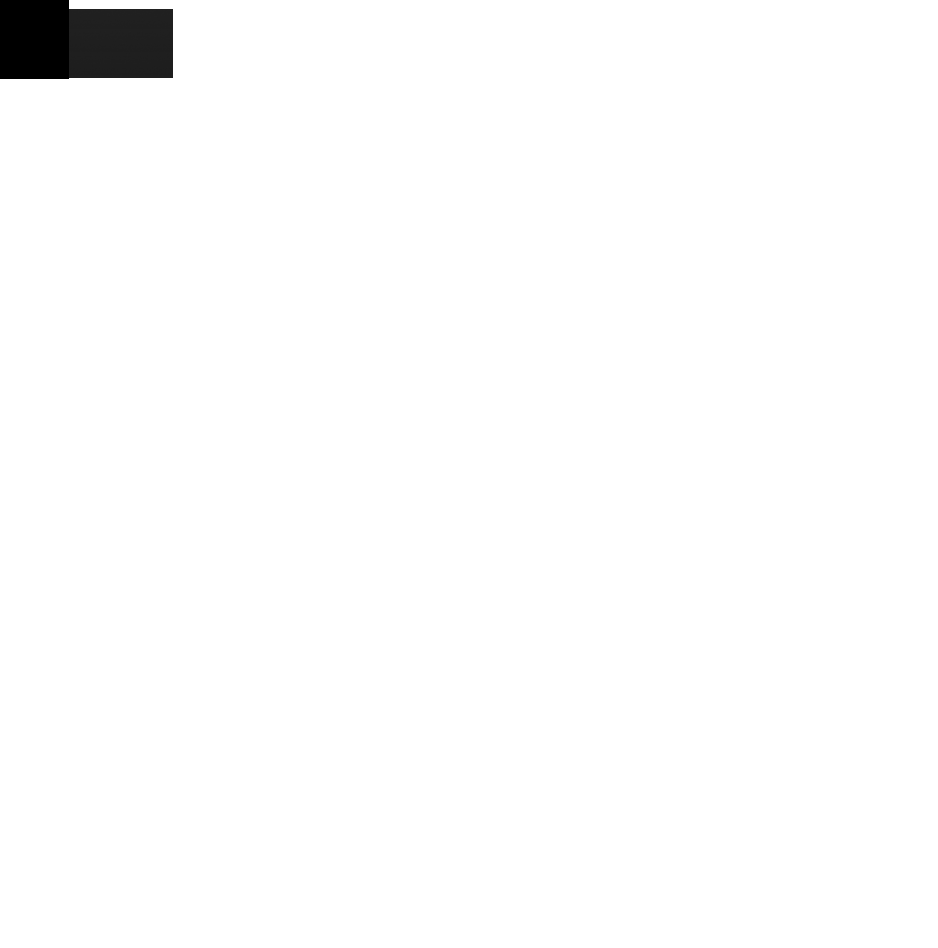
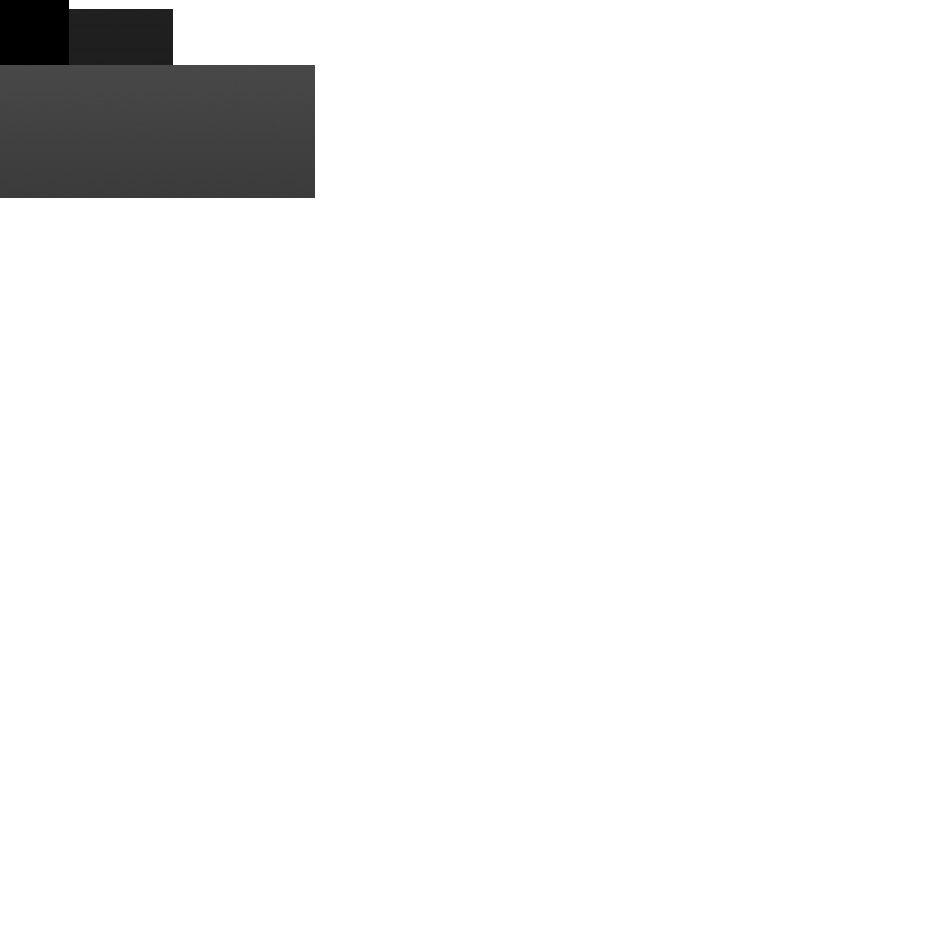
affichage données album ok

Changed region(s): [[0.0, 0.0612, 0.3401, 0.2141]]

diff --git a/front-musicboxd/src/components/albumview.jsx b/front-musicboxd/src/components/albumview.jsx
@@ -2,23 +2,65 @@ import React, { useEffect, useState } from 'react';
 import Sidebar from './sidebar';
 import {Link, useNavigate, useParams  } from 'react-router-dom';
 import Stack from '@mui/material/Stack';
+import CircularProgress from '@mui/material/CircularProgress';
+import CircleIcon from '@mui/icons-material/Circle';
 
 import '../styles/albumview.css'
 
 export default function AlbumView({ user, setUser, isConnected, setIsConnected}) {
-    console.log(user)
 
     const [albumData, setAlbumData] = useState(null);
     const navigate = useNavigate();
     const { id } = useParams();
-    console.log(id);
+
+    useEffect(() => {
+        if (user === ''){
+          navigate('/login')
+        } else {
+          fetchAlbum(id);
+        }
+      }, [user, navigate]);
     
-    
+    async function fetchAlbum(id) {
+    try{
+        const url = `https://api.deezer.com/album/${id}`;
+        const response = await fetch(`https://api.allorigins.win/get?url=${encodeURIComponent(url)}`);
+        const data = await response.json();
+        const res  = JSON.parse(data.contents.replace(/[\u0000-\u001F\u007F-\u009F]/g, ''));
+        // console.log(res.artist.id)
+        setAlbumData(res)
+    } catch {
+        navigate('/login')
+    }
+    }
 
     return(
         <div className="albumView">
             <Sidebar user={user} setUser={setUser} isConnected={isConnected} setIsConnected={setIsConnected}></Sidebar>
-            blabla
+            {albumData ? (
+            <div className='albumdata'>
+            <Stack spacing={0} direction="column" sx={{marginLeft:'-30px'}}>
+            <Stack spacing={3} direction="row" >
+                <Link to={albumData.cover_medium} target="_blank"><img src={albumData.cover_medium} className='albumcover'></img></Link>
+                <div className='txtcontaineralbum'>
+                    <p className='albumd'>ALBUM</p>
+                    <h1 className='titrealbum'>{albumData.title}</h1>
+                    <p className='moredataalbum'>{albumData.release_date.substring(0, 4)} <CircleIcon/> {albumData.nb_tracks} titres <CircleIcon/> {(Math.floor(albumData.duration / 3600)) + 'h' + (Math.floor((albumData.duration % 3600) / 60)) + 'min'}</p>
+                </div>
+            </Stack>
+            <Stack spacing={1} direction="row" >
+                <p className='linktoartist'><Link to={'/artist/'+albumData.artist.id} className='linktoartist'>{albumData.artist.name}</Link></p>
+                <p className='linktodeezeralbum'> <a href={albumData.link} target='_blank' className='linktodeezeralbum'>Écouter sur Deezer</a></p>
+            </Stack>
+
+            </Stack>
+
+            </div>):(
+                <CircularProgress />
+            )}
+            <div className='review'>
+                
+            </div>
         </div>
     )
 

diff --git a/front-musicboxd/src/styles/albumview.css b/front-musicboxd/src/styles/albumview.css
@@ -21,3 +21,57 @@
     background-color: #1a1a1a;
     color: white;
 }
+
+.albumdata{
+    width:100%;
+    height: 55vh;
+    position:fixed;
+    background-color: #454545;
+}
+
+.albumcover{
+    width: 275px;
+    margin-top: 30px;
+    margin-left: 75px;
+}
+
+.txtcontaineralbum{
+    margin-top: 50px;
+    margin-right: 50px;
+    width: 100%;
+    padding: 4px;
+    display: flex;
+    flex-direction: column;
+}
+
+.albumd{
+    margin-top: 120px;
+    font-size: 25px;
+}
+
+.titrealbum{
+    font-family: 'GothamBold';
+    font-size: 300%;
+    white-space: nowrap;
+    margin-top: -20px;
+}
+
+.moredataalbum{
+    margin-top: 30px;
+    font-size: 30px;
+}
+
+.linktoartist{
+    margin-left: 39px;
+    margin-top: -15px;
+    color: white;
+    text-decoration: underline;
+    font-size: 25px;
+}
+
+.linktodeezeralbum{
+    color: white;
+    font-size: 25px;
+    margin-left: 600px;
+    text-decoration: underline;
+}

diff --git a/front-musicboxd/src/components/searchView.jsx b/front-musicboxd/src/components/searchView.jsx
@@ -97,7 +97,6 @@ export default function SearchView({user, setUser, isConnected, setIsConnected})
   }));
 
   const handleSearch = async () => {
-    console.log('avant')
     try {
 
       setResults([]);
@@ -111,8 +110,6 @@ export default function SearchView({user, setUser, isConnected, setIsConnected})
   
       const section = document.querySelector(".resultat");
       section.innerHTML = "";
-
-      console.log(resultats.data)
       
       if (searchValue === '') {
         setArtists([])
